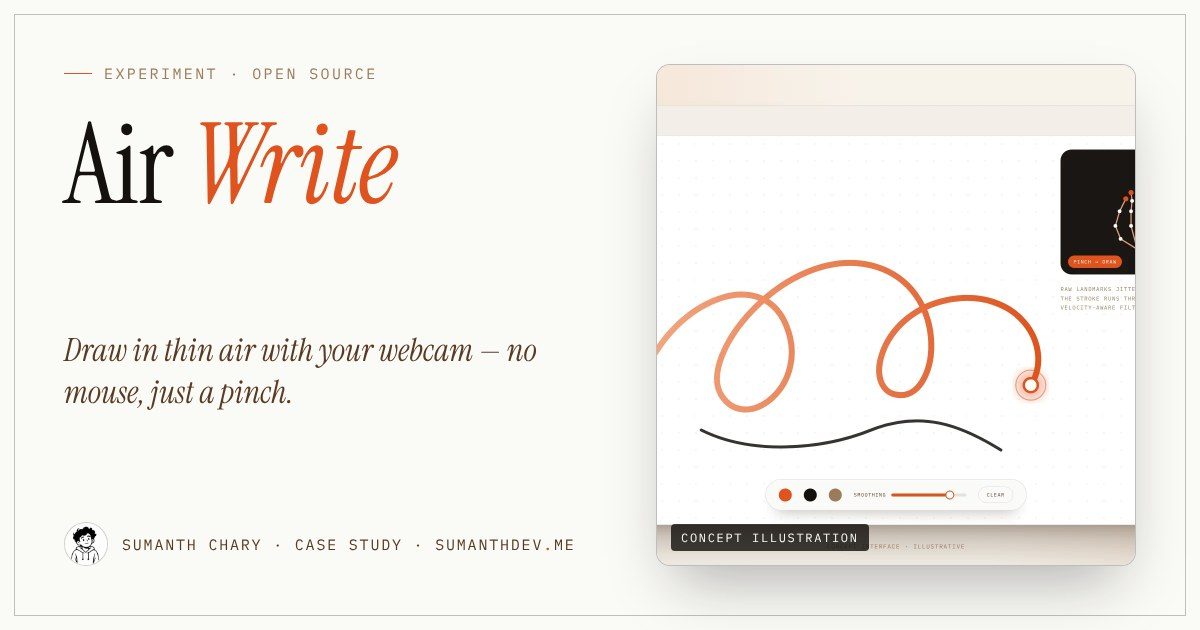
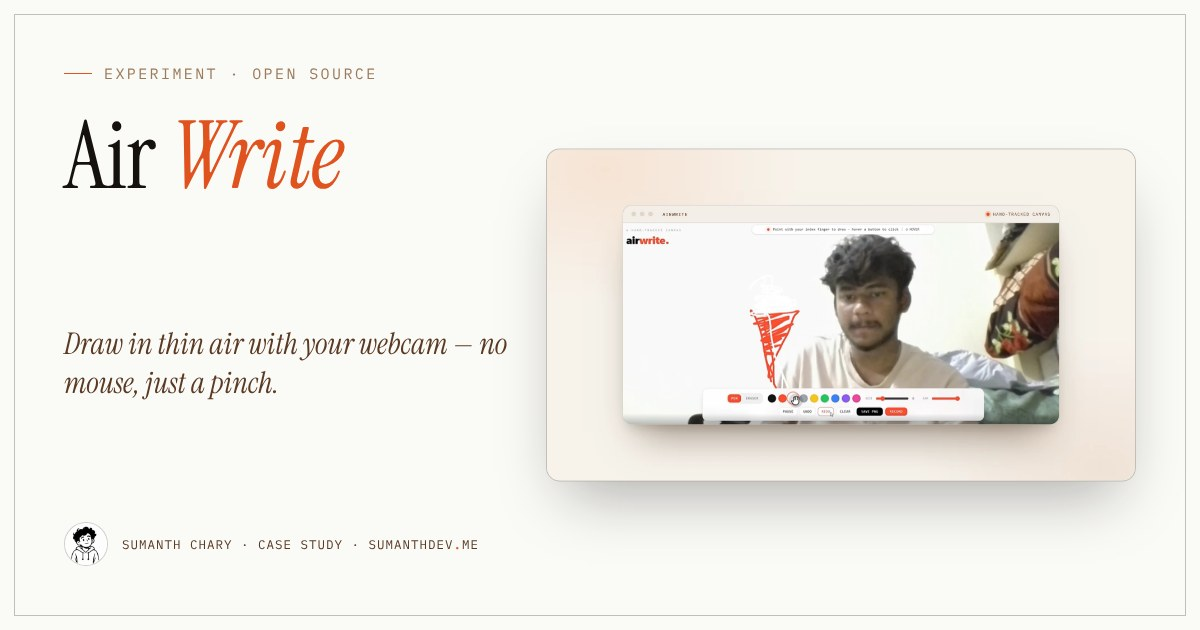
Real AirWrite and LegalDeep AI screenshots
- AirWrite: real screenshot of the app running (framed on the site gradient at 16:9 so
  the 3D deck, thumbnails and cover-fit don't crop it), plus the GitHub README as
  proof the source is public. Designed mockup removed now that a real one exists.
  Stack line corrected to match the README (TanStack Start, TypeScript)
- LegalDeep: the real 'LegalDeep AI' landing page replaces the ContractAI shot;
  letterbox bars cropped off; caption no longer mentions ContractAI. The designed
  analysis view stays below it, labelled as a concept
- Gallery: captions under 1- and 2-image galleries, sensible max width for singles
- Share cards for AirWrite and LegalDeep rebuilt with a wide, ratio-matched image slot
- roadmap.md updated

Claude-Session: https://claude.ai/code/session_01EGSdgNS9nQNqCD6PpXqPSa

diff --git a/src/data/projects.ts b/src/data/projects.ts
@@ -14,11 +14,12 @@ import flipscanSplash from "@/assets/media/flipscan-splash.webp";
 import legaldeepLanding from "@/assets/media/legaldeep-landing.webp";
 import bhaskarMessage from "@/assets/media/bhaskar-message.webp";
 import legaldeepConcept from "@/assets/media/legaldeep-concept.webp";
-import airwriteConcept from "@/assets/media/airwrite-concept.webp";
+import airwriteHero from "@/assets/media/airwrite-hero.webp";
+import airwriteReadme from "@/assets/media/airwrite-readme.webp";
 
 /**
- * Real photos of AirWrite in use. Drop files named airwrite-photo-1.jpg, airwrite-photo-2.png …
- * into src/assets/media and they appear on the case study — no code change needed.
+ * More photos of AirWrite in use: drop files named airwrite-photo-1.jpg, airwrite-photo-2.png …
+ * into src/assets/media and they are added to the case-study gallery — no code change needed.
  */
 const airwritePhotos = Object.entries(
   import.meta.glob("../assets/media/airwrite-photo-*.{jpg,jpeg,png,webp}", {
@@ -265,7 +266,7 @@ export const projects: Project[] = [
       },
     ],
     hero: legaldeepLanding,
-    heroCaption: "The product's landing page, shown as branded ContractAI.",
+    heroCaption: "The product's landing page.",
     concept: {
       heading: "The analysis view, as designed",
       src: legaldeepConcept,
@@ -286,7 +287,7 @@ export const projects: Project[] = [
     live: true,
     tint: "--cover-airwrite",
     role: "Design, development",
-    stack: "React · MediaPipe · Canvas",
+    stack: "TanStack Start · TypeScript · MediaPipe · Canvas",
     statusLong: "Launched — code on GitHub",
     category: "Experiment",
     repo: "https://github.com/SumanthChary/airwrite",
@@ -296,18 +297,17 @@ export const projects: Project[] = [
       "Smoothing was the whole project. Raw landmark data is jittery, so the stroke path runs through a velocity-aware filter before it ever hits the canvas — the difference between a toy and something that feels like drawing.",
     result: "Launched — the full source is public on GitHub.",
     quote: "Most novel interfaces fail on latency, not on the idea.",
-    concept: {
-      heading: "The interface, as designed",
-      src: airwriteConcept,
-      caption: "Hand landmarks in, smoothed strokes out — the canvas follows the fingertip.",
-    },
-    ...(airwritePhotos[0] ? { hero: airwritePhotos[0] } : {}),
-    heroCaption: "AirWrite in use.",
-    gallery: airwritePhotos.slice(1).map((src, i) => ({
-      label: `AirWrite in use — ${i + 2}`,
-      size: "Photo",
-      src,
-    })),
+    hero: airwriteHero,
+    heroCaption:
+      "AirWrite running on a webcam — the camera feed is the canvas, the fingertip is the pen.",
+    gallery: [
+      { label: "README on GitHub", size: "The source is public", src: airwriteReadme },
+      ...airwritePhotos.map((src, i) => ({
+        label: `AirWrite in use — ${i + 1}`,
+        size: "Photo",
+        src,
+      })),
+    ],
   },
   {
     slug: "flipscan-ai",

diff --git a/src/components/CaseGallery.tsx b/src/components/CaseGallery.tsx
@@ -80,8 +80,18 @@ export function CaseGallery({
     );
   }
   return (
-    <Reveal className={`grid gap-5 ${shown.length === 2 ? "md:grid-cols-2" : ""}`}>
-      {shown.map((g) => frame(g))}
+    <Reveal
+      className={`grid gap-6 ${shown.length === 2 ? "md:grid-cols-2" : "mx-auto max-w-[900px]"}`}
+    >
+      {shown.map((g) => (
+        <figure key={g.label} className="m-0">
+          {frame(g)}
+          <figcaption className="mt-3 font-mono text-[0.62rem] uppercase tracking-[0.1em] text-brown-soft">
+            {g.label}
+            <span className="ml-2 normal-case tracking-[0.02em]">— {g.size}</span>
+          </figcaption>
+        </figure>
+      ))}
     </Reveal>
   );
 }

diff --git a/roadmap.md b/roadmap.md
@@ -20,12 +20,11 @@
 
 ## Next — highest leverage first
 - [x] Sri Vastrika client line is live (home + case study), named (Bhaskar) with a real WhatsApp message beside it
-- [ ] Make sure the quote on the site is something Bhaskar actually said — the screenshot shows "Kk bro thanks for everything", not the quote line. Add a screenshot of the quote itself, or switch the quote to his words
 - [ ] Replace the one-line testimonial with a longer quote once the client can give one
 - [x] LegalDeep public record linked (2 posts on X, LinkedIn, TrustMRR)
 - [x] LegalDeep sale: 11 October 2026, buyer Darren Gill (shown on the case study)
 - [x] Real FlipScan screens + render, real LegalDeep landing page
-- [ ] AirWrite: add real photos/recordings — drop files named `airwrite-photo-1.jpg`, `airwrite-photo-2.png` … into `src/assets/media` and they appear automatically (first = hero, rest = gallery)
+- [x] AirWrite: real screenshot + README on the case study. More photos? Drop `airwrite-photo-1.jpg`, `airwrite-photo-2.png` … into `src/assets/media` and they join the gallery automatically
 - [ ] Higher-resolution FlipScan screenshots (two are only 215px and 410px wide)
 - [ ] "Try AirWrite" live demo on the site — the most shareable asset you own
 - [ ] 30-second screen recording per case study (autoplay, muted) for X/LinkedIn
